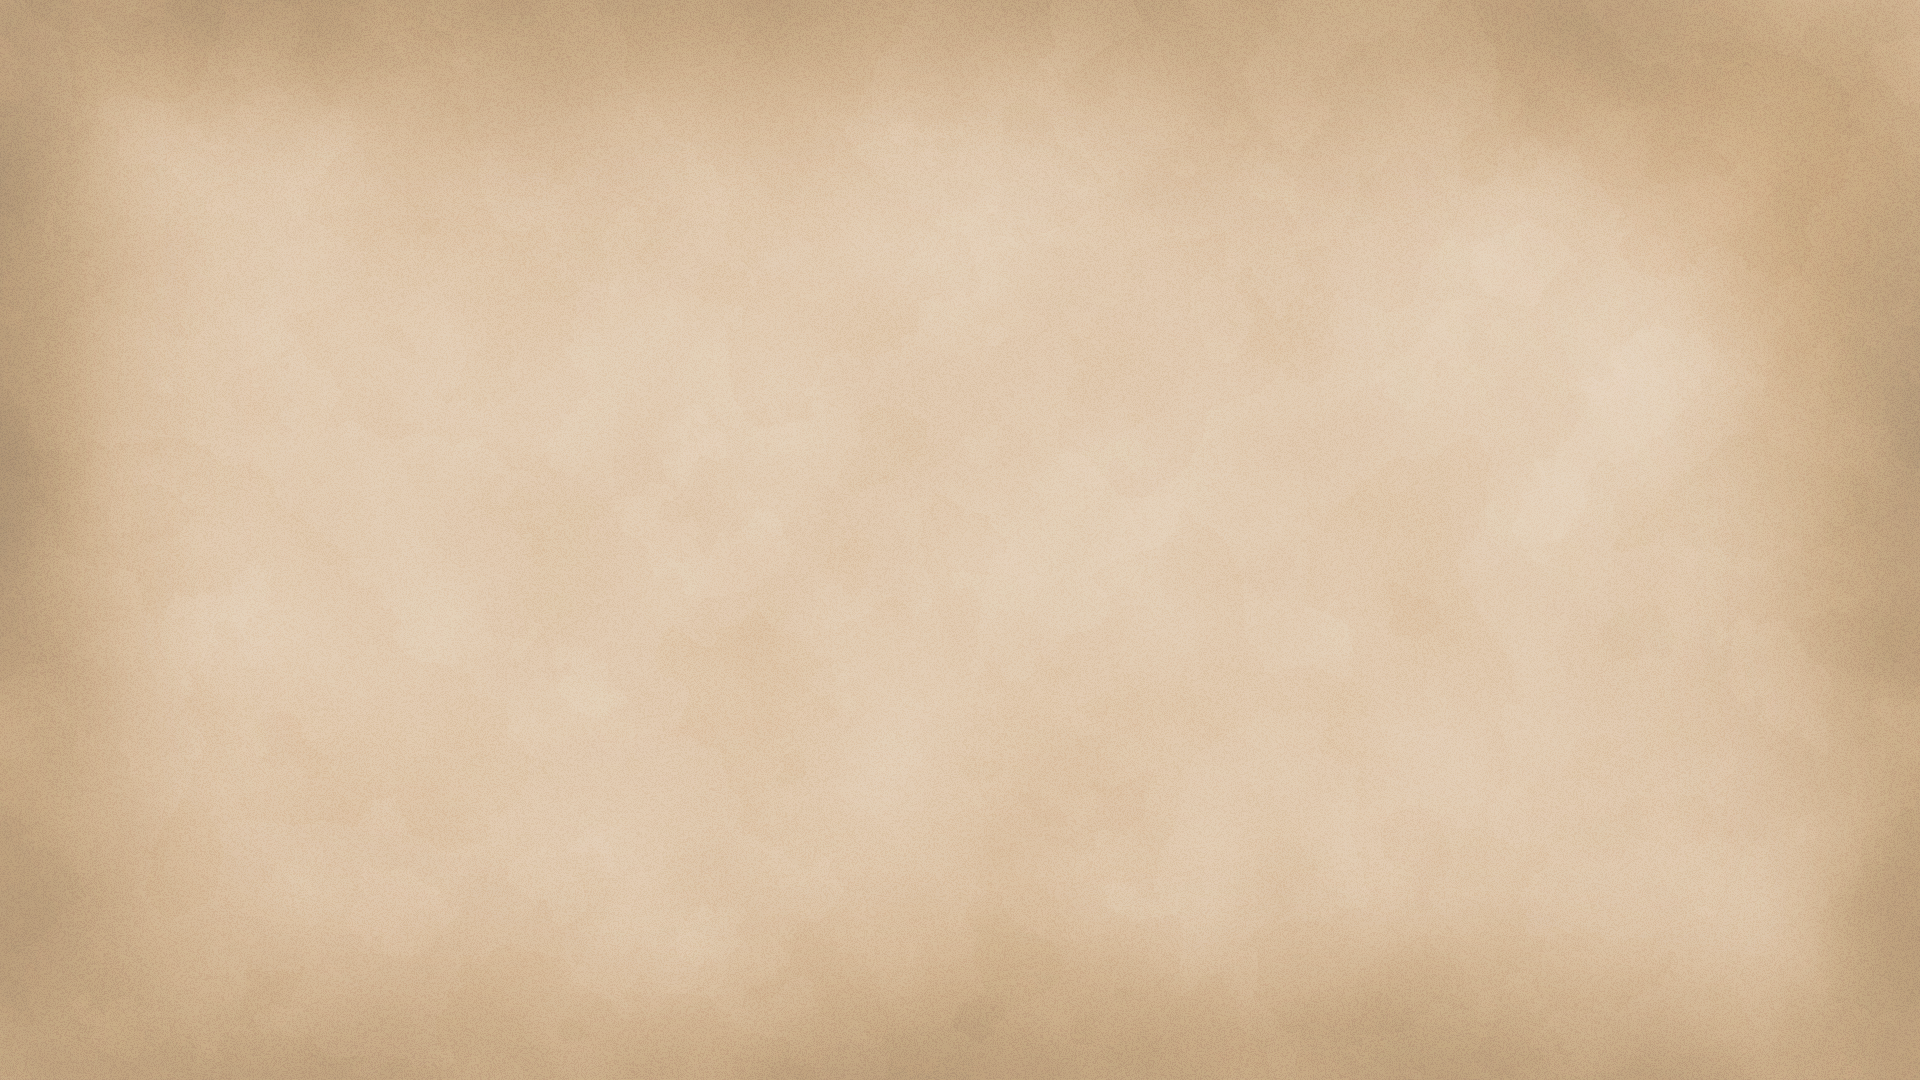
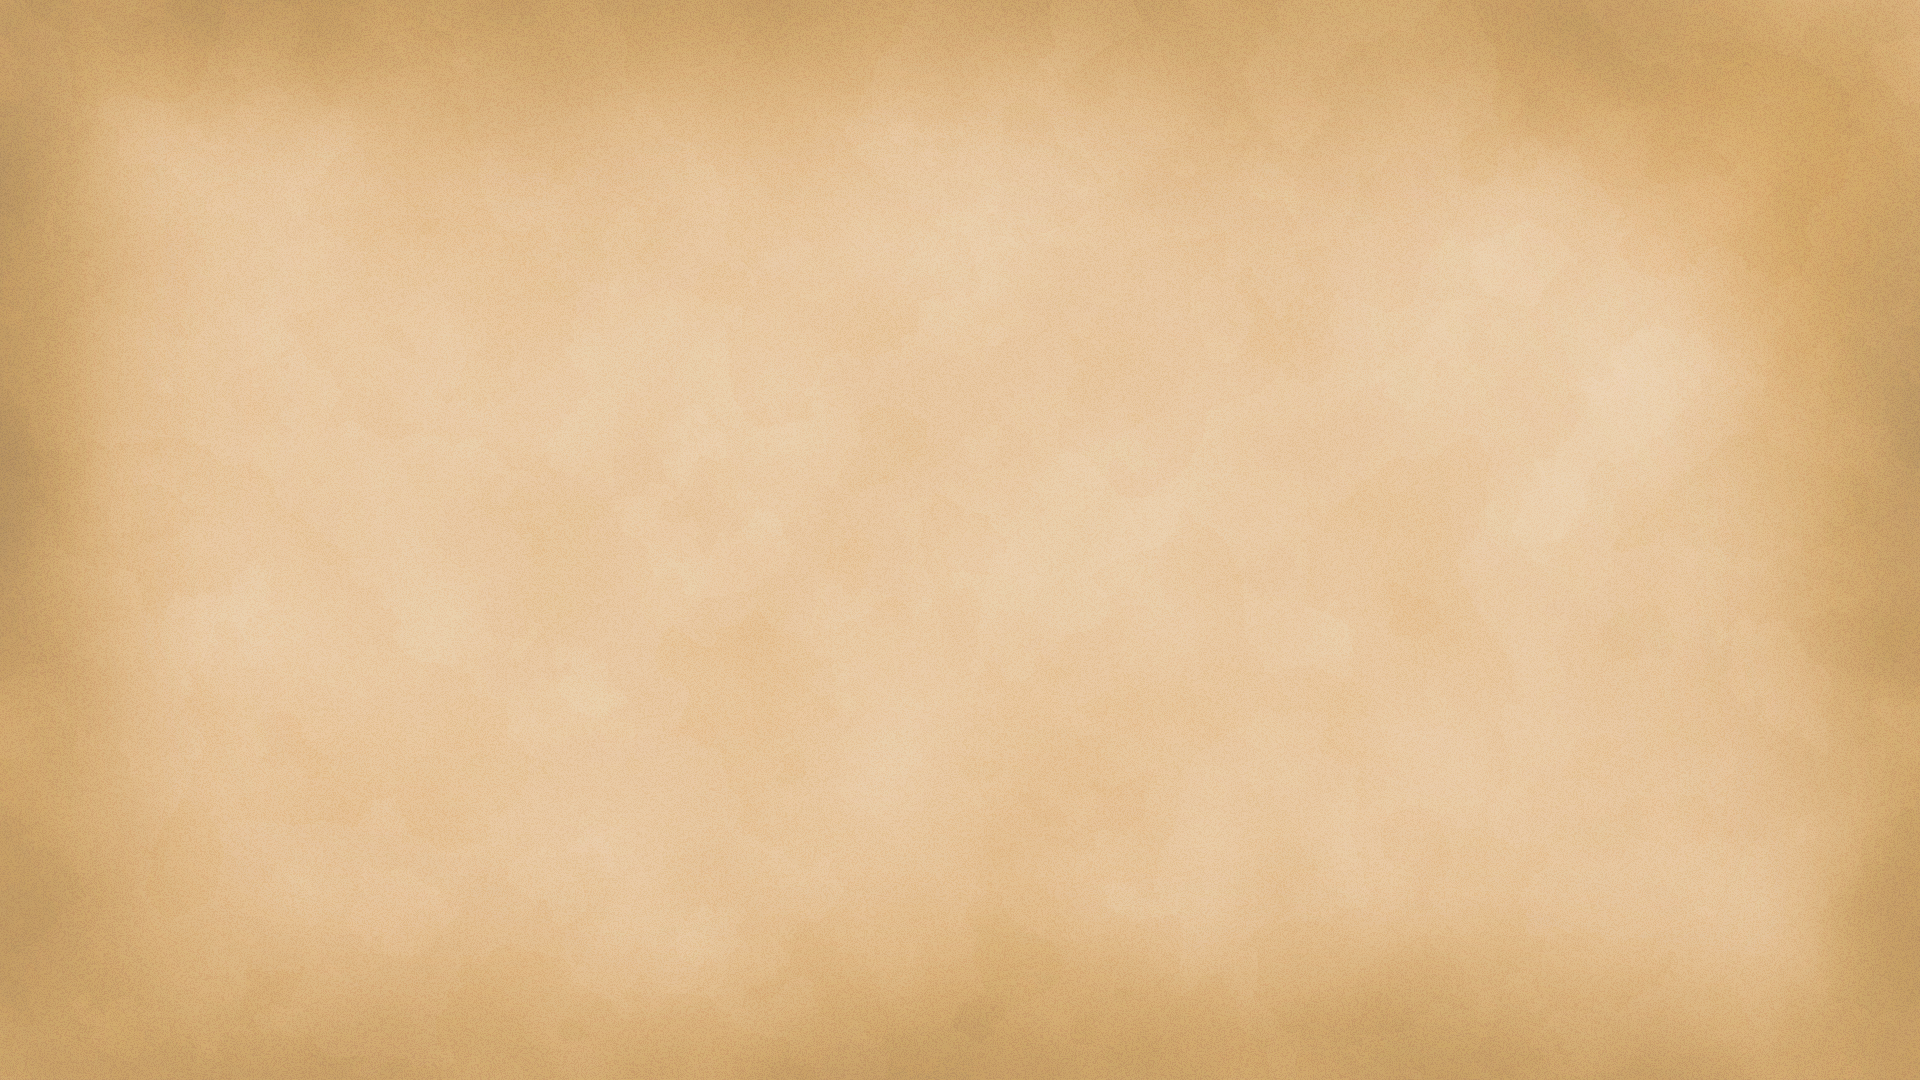
Changes to Buttons and Output

diff --git a/Components/Pages/Input/InputMethods/KeyboardInput/KeyboardInput.razor.css b/Components/Pages/Input/InputMethods/KeyboardInput/KeyboardInput.razor.css
@@ -24,10 +24,12 @@ div.keyboard_input__input textarea {
     
     font-size: x-large;
     
-    background: url("img/table.png");
+    background: url("img/background/map_bright.png");
     background-size: cover;
     border-style: solid;
     border-color: #522300;
     border-width: 3px;
     border-radius: 0.5rem;
+    
+    padding: 0.5rem;
 }
